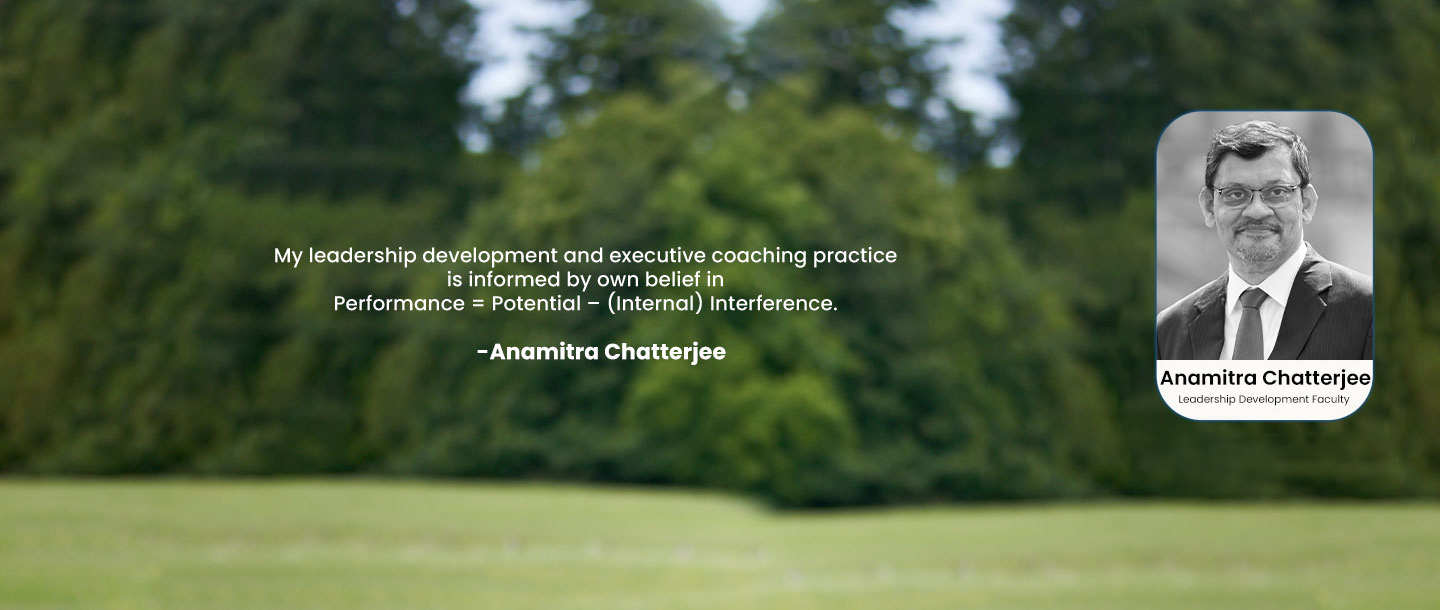
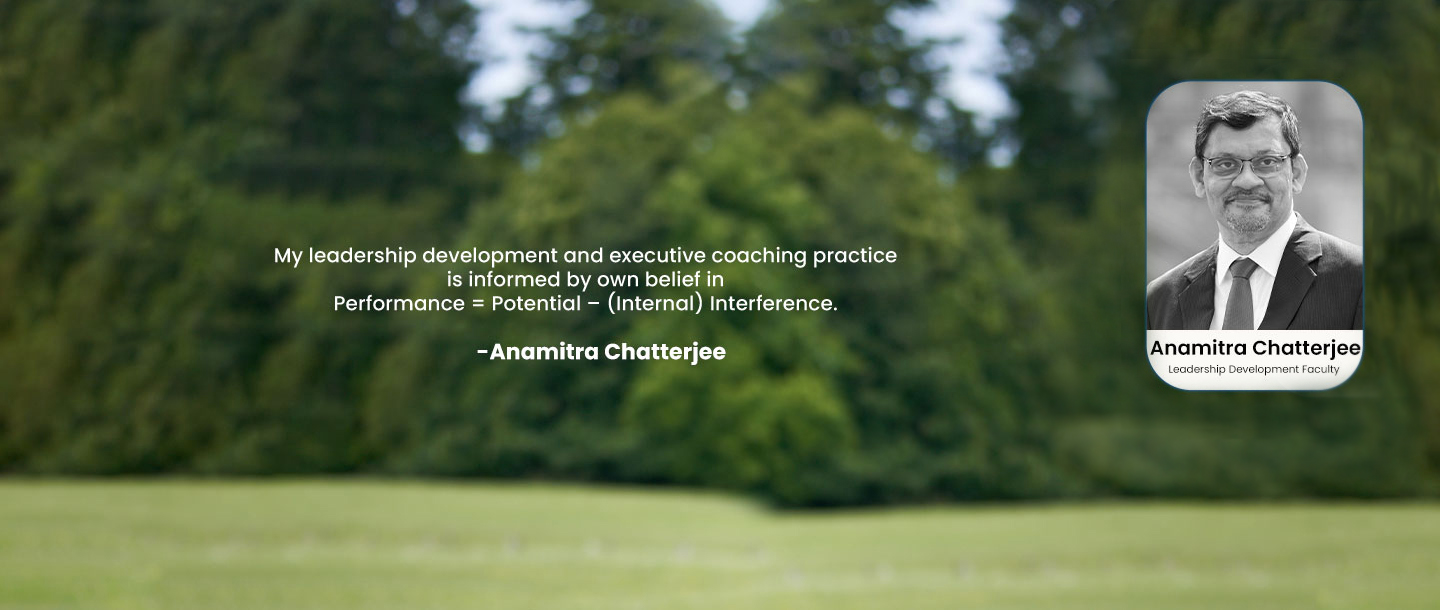
your message

Changed region(s): [[0.7188, 0.0, 0.9688, 0.8098]]

diff --git a/index.html b/index.html
@@ -116,7 +116,8 @@
           <!--  <h2 class="data-aos" data-aos="fade-right">“My leadership development and executive coaching<br>
  practice is informed by my own belief in<br>
 Performance = Potential – (Internal) Interference.”</h2> -->
-            <img src="assets/img/service-img.jpg" class="img-fluid" alt="" />
+<!--            <img src="assets/img/service-img.jpg" class="img-fluid" alt="" />-->
+			<img src="assets/img/leadership-banner3.jpg" class="img-fluid" alt="" />
             <div class="service-option">
                 <div class="container">
                     <div class="row" >
